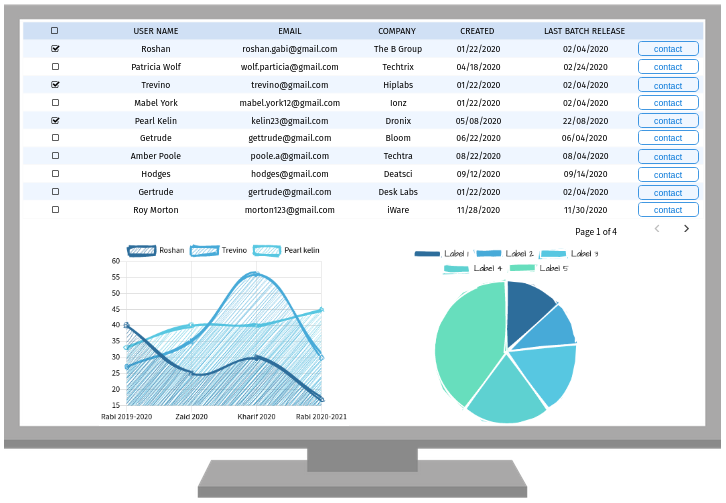
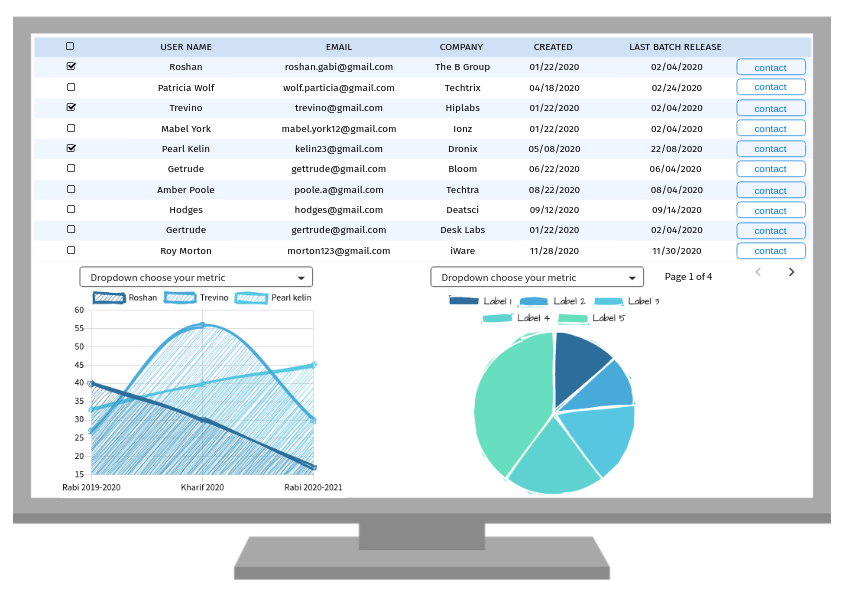
ux diag and fx seasons

diff --git a/ddlatex/Files/userinterface.tex b/ddlatex/Files/userinterface.tex
@@ -61,7 +61,7 @@ The figure \ref{Fig:interface_forum} shows the view of the forum on a phone, thi
 	
 	\centering
 	
-	\includegraphics[width=0.8\columnwidth]{Images/release_data_interface.png}
+	\includegraphics[width=0.8\columnwidth]{Images/visualize_farmers.png}
 	
 	\caption{Policy Maker comparing farmer on different factors}
 	
@@ -77,8 +77,20 @@ The figure \ref{Fig:interface_forum} shows the view of the forum on a phone, thi
 	
 	\includegraphics[width=0.8\columnwidth]{Images/messages_policy_maker.png}
 	
-	\caption{Policy Maker messages}
+	\caption{Policy Maker messages, this interface can also be used by farmers}
 	
 	\label{Fig:interface_messages_policy_maker}
+	
+\end{figure}
+
+\begin{figure}[H]
+	
+	\centering
+	
+	\includegraphics[width=\columnwidth]{Images/ux_diag.png}
+	
+	\caption{UX diagram showing the different path when using the application}
+	
+	\label{Fig:diag_ux}
 	
 \end{figure}
